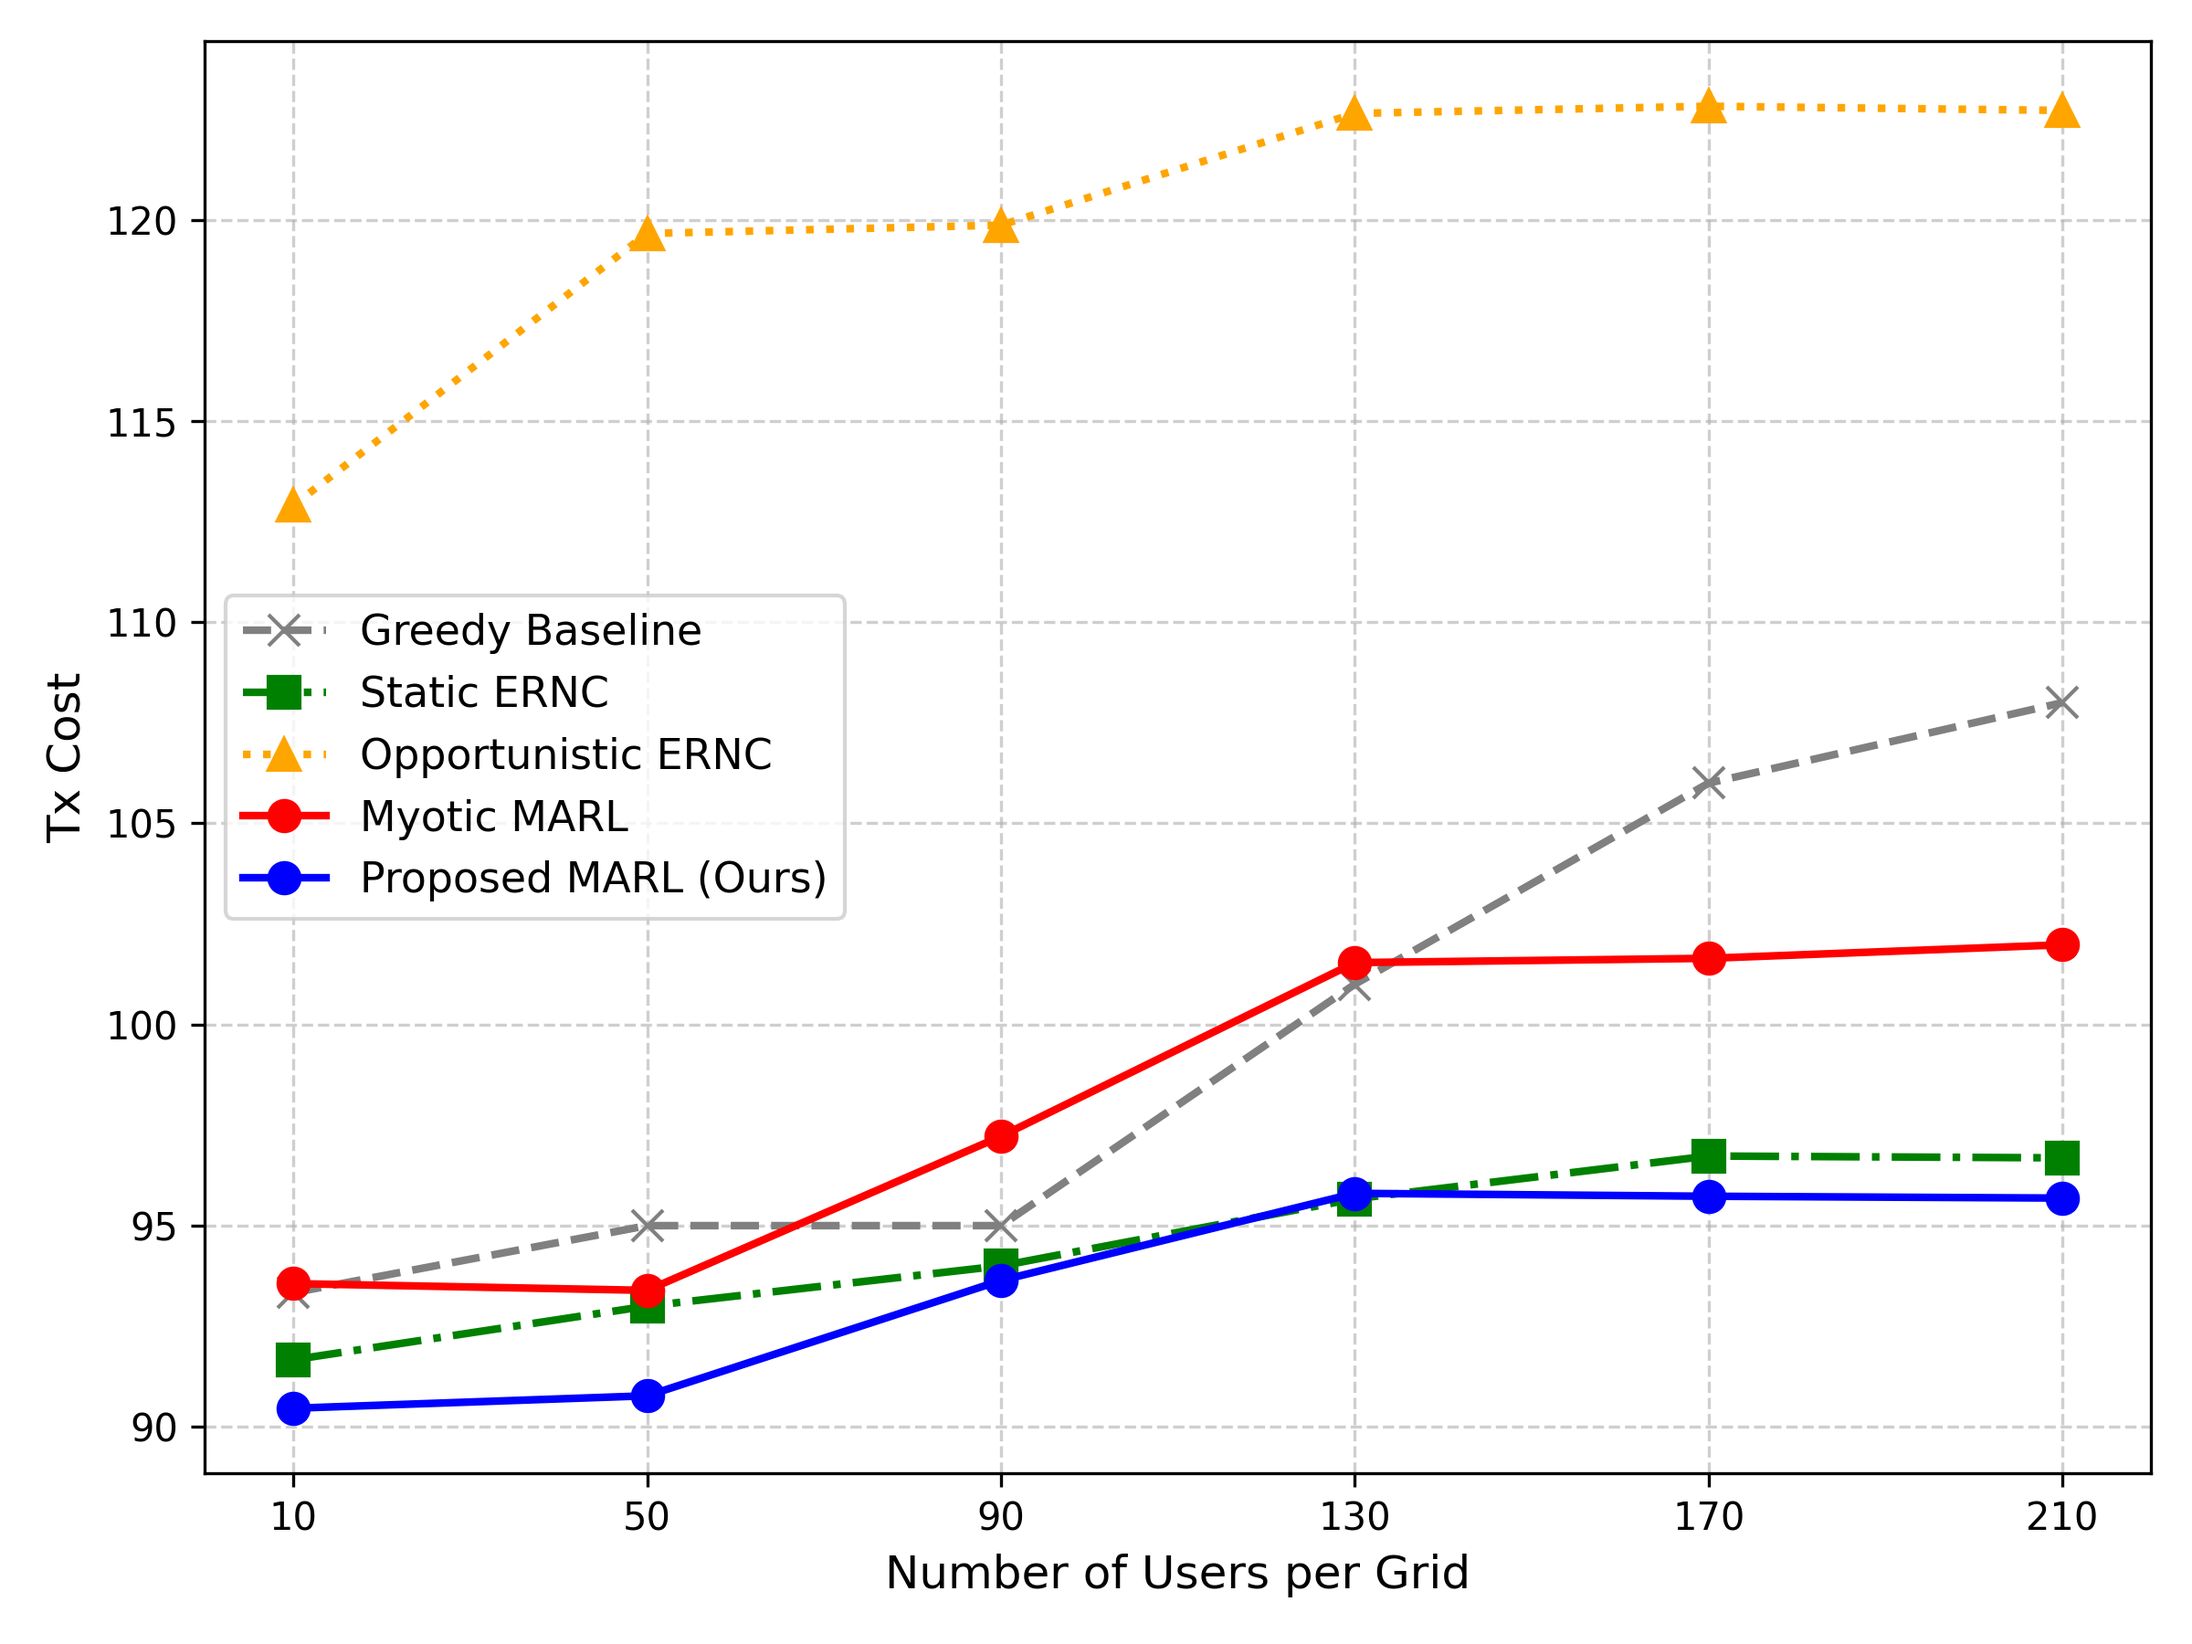
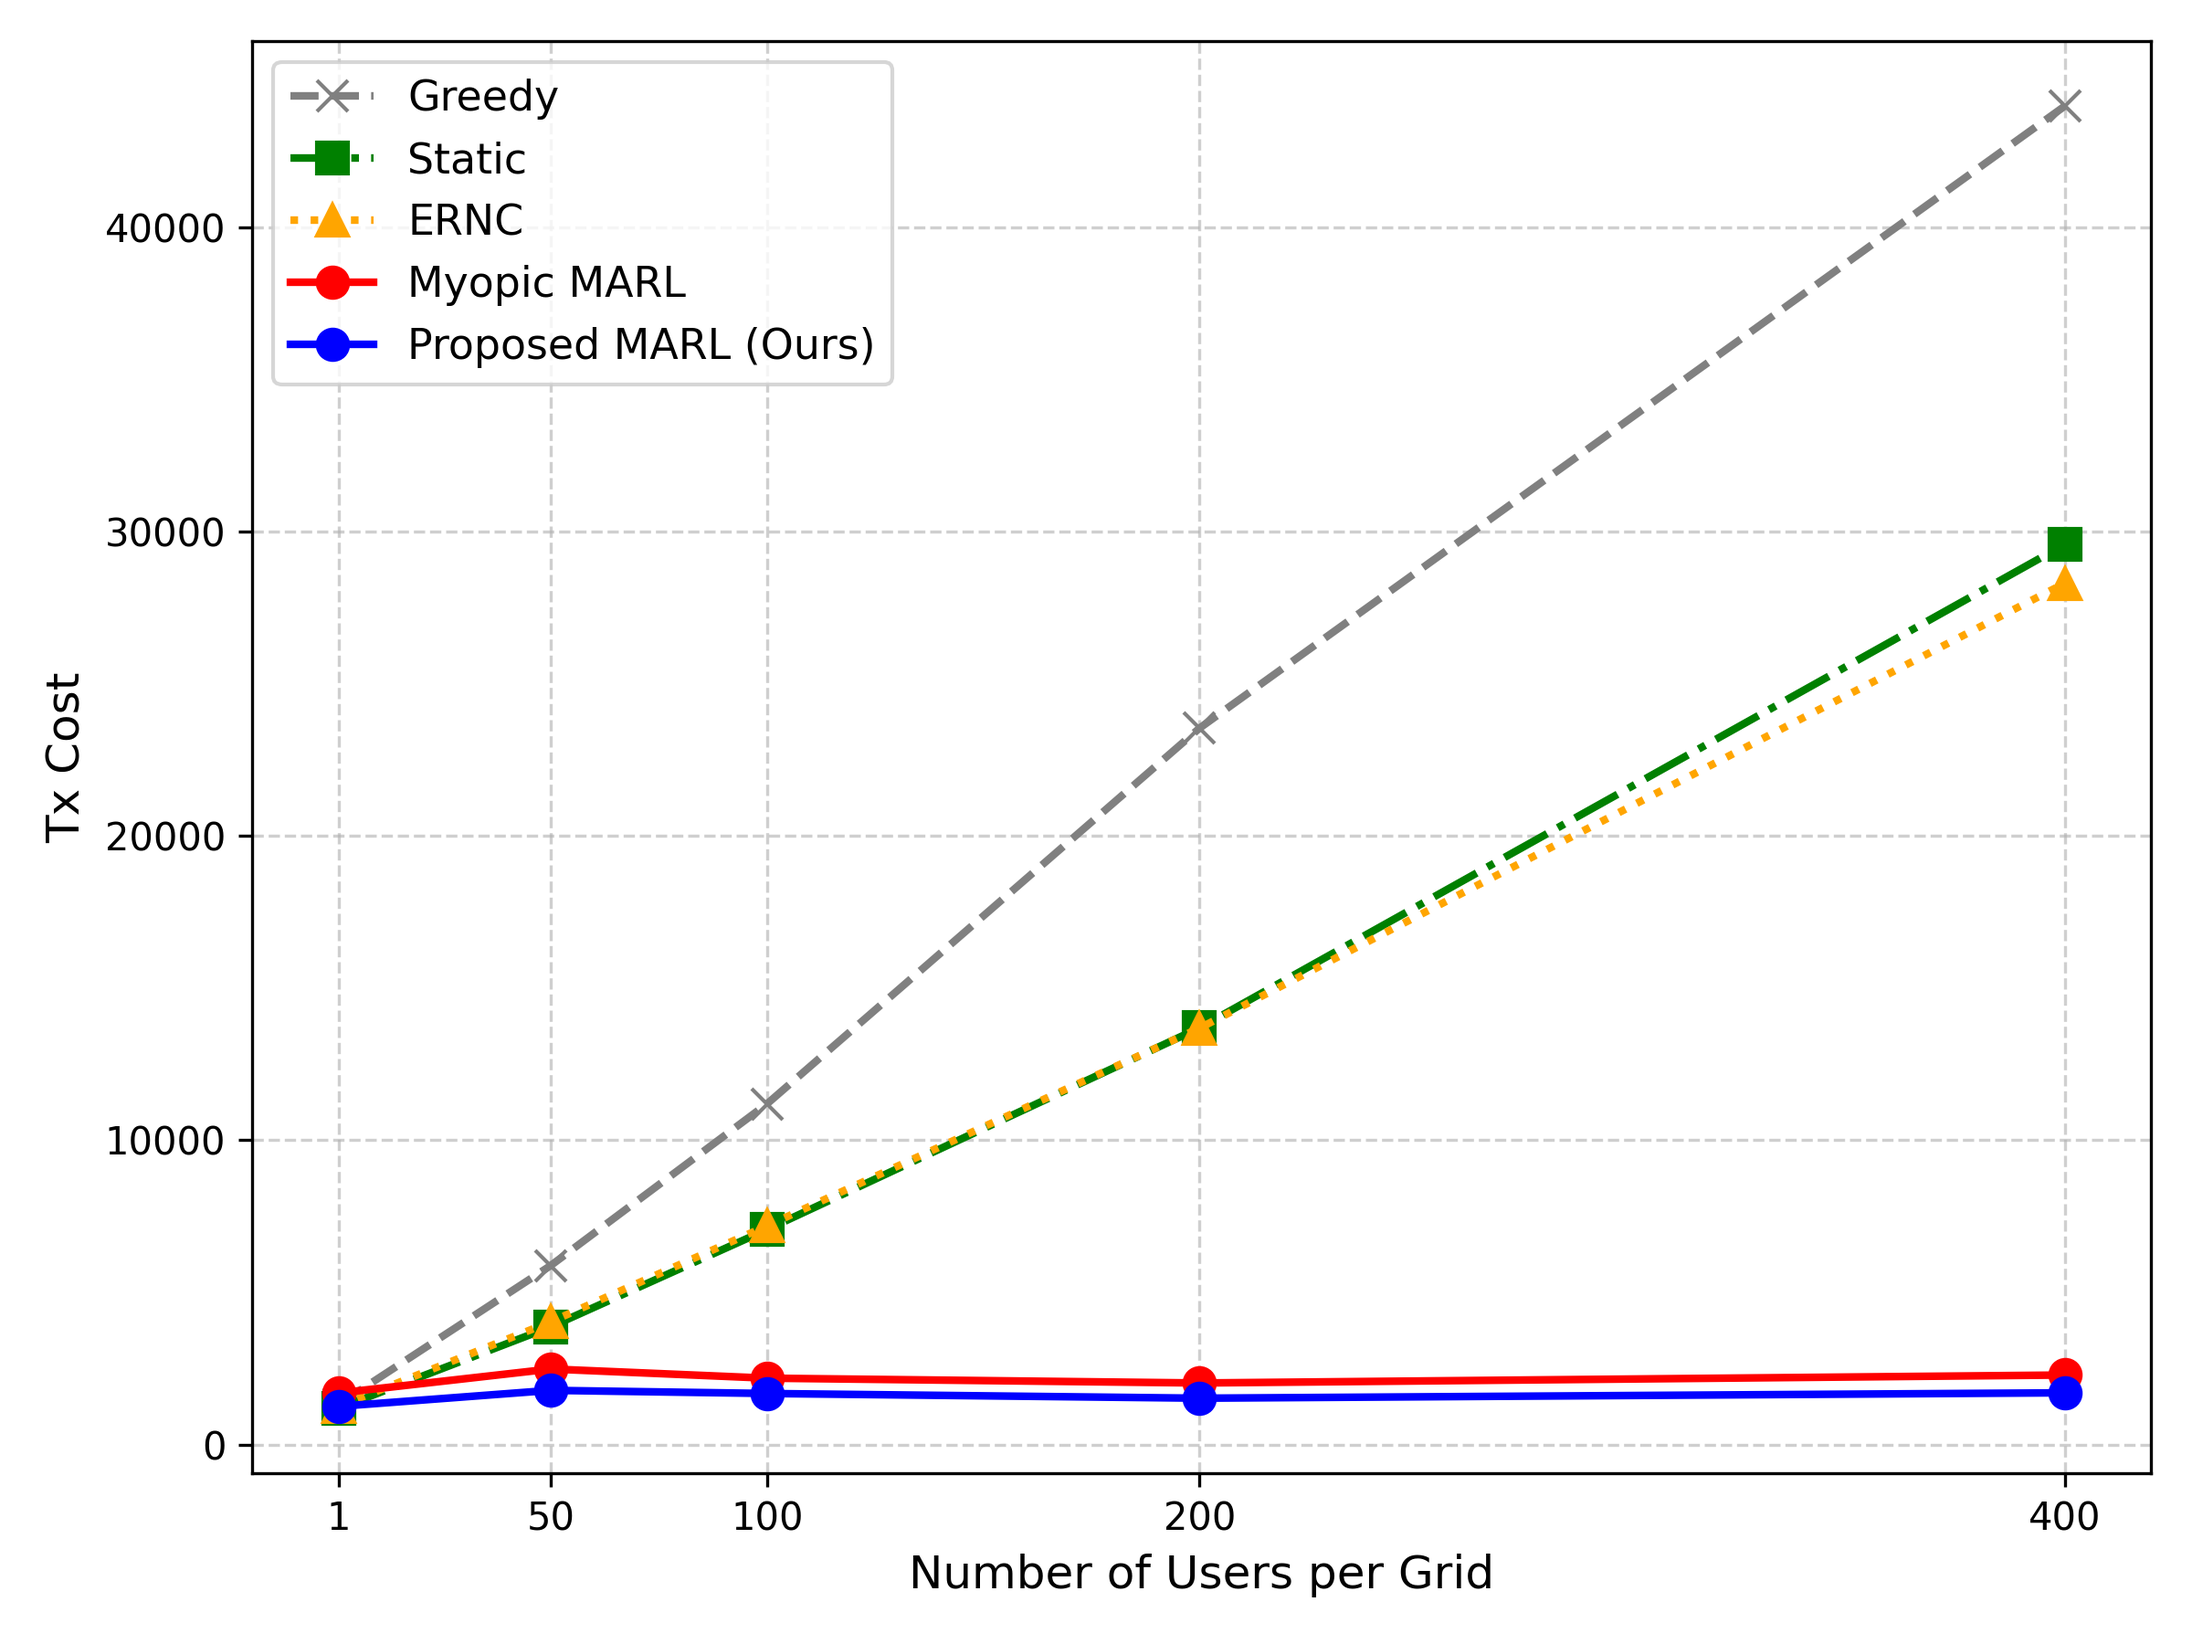
TODO: overlap perf with ERNC

diff --git a/plot/plot_step_ful_curve.py b/plot/plot_step_ful_curve.py
@@ -1,0 +1,83 @@
+import pandas as pd
+import matplotlib.pyplot as plt
+import os
+import sys
+sys.path.insert(0, os.path.abspath(os.path.join(os.path.dirname(__file__), "..")))
+
+from param import *
+
+# 1. 定義你要比較的算法與對應的 CSV 檔名
+# 你可以自行把其他 baseline 的 csv 檔名加進來
+DIR_NAME = f"satellite_{MY_CONST_NAME}_checkpoints/"
+files_info = {
+    "MAPPO": {"file": "MAPPO_curve.csv", "color": "blue", "label": "MAPPO-CTDE (TEG)"},
+    "MYOTIC": {"file": "MYOTIC_curve.csv", "color": "red", "label": "MYOPIC-CTDE"},
+    "GREEDY": {"file": "GREEDY_curve.csv", "color": "gray", "label": "Greedy-RLNC"},
+    "ERNC": {"file": "ERNC_curve.csv", "color": "orange", "label": "ER-NC"},
+    "STATIC": {"file": "STATIC_R_curve.csv", "color": "green", "label": "Static Redundancy"},
+}
+
+def plot_all_curves():
+    plt.figure(figsize=(10, 6))
+    
+    # 階段一：先掃描一次所有的 CSV，找出「最長的步數 (Global Max Step)」
+    max_step_global = 0
+    data_dict = {}
+
+    for algo, info in files_info.items():
+        file_name = os.path.join(DIR_NAME, info["file"])
+        if os.path.exists(file_name):
+            df = pd.read_csv(file_name)
+            # 確保欄位名稱跟你 CSV 裡的一樣 (例如 'step', 'fulfill')
+            max_step_global = max(max_step_global, df['step'].max())
+            data_dict[algo] = df
+        else:
+            print(f"找不到檔案: {file_name}")
+
+    # 階段二：處理數據並畫圖
+    for algo, info in files_info.items():
+        if algo not in data_dict:
+            continue
+            
+        df = data_dict[algo]
+        steps = df['step'].tolist()
+        # max_step = steps[-1]
+        fulfills = df['fulfill'].tolist()
+        
+        # 【關鍵處理 1】：正規化 (Normalization)
+        # 把大約 0.9 的最大值當成分母，等比例放大到 100%
+        max_f = max(fulfills)
+        if max_f > 0:
+            fulfills_100 = [(f / max_f) * 100 for f in fulfills]
+        else:
+            fulfills_100 = [0] * len(fulfills)
+        
+        # 【關鍵處理 2】：處理完成步數不同的問題 (向前平移填充)
+        # 如果這個演算法提早結束了，我們在陣列最後面補上一個點，讓線平移到最後
+        if steps[-1] < max_step_global:
+            steps.append(max_step_global)
+            fulfills_100.append(fulfills_100[-1]) # 沿用最後的完賽率 (通常是 100%)
+
+        # 畫出折線
+        plt.plot(steps, fulfills_100, color=info["color"], label=info["label"], linewidth=2.5)
+
+    # 圖表美化設定
+    plt.title('Fulfill Rate CDF over Time')
+    plt.xlabel('Time Step')
+    plt.ylabel('Fulfill Rate (%)')
+    
+    # 設定 Y 軸 0~105 留一點頂部空間，X 軸鎖定到最長步數
+    plt.ylim(0, 105)
+    if max_step_global > 0:
+        plt.xlim(0, max_step_global)
+        
+    plt.grid(True, linestyle='--', alpha=0.6)
+    plt.legend(loc="lower right", fontsize=12)
+
+    plt.tight_layout()
+    plt.savefig(f'fig/{MY_CONST_NAME}_all_curves_comparison.png', dpi=300)
+    plt.show()
+    print(f"已成功儲存 {MY_CONST_NAME}_all_curves_comparison.png")
+
+if __name__ == "__main__":
+    plot_all_curves()

diff --git a/plot/plot.py b/plot/plot.py
@@ -1,6 +1,9 @@
 import pandas as pd
 import matplotlib.pyplot as plt
 import os
+import sys
+sys.path.insert(0, os.path.abspath(os.path.join(os.path.dirname(__file__), "..")))
+
 from param import *
 
 # ==========================================
@@ -9,10 +12,10 @@ from param import *
 # 定義你的演算法標籤與對應的 CSV 檔案名稱
 # 假設你的檔案分別命名為以下名稱，請依照實際檔名修改
 algorithm_files = {
-    'Greedy Baseline': 'GREEDY_test_log.csv',
-    'Static ERNC': 'STATIC_R_test_log.csv',
-    'Opportunistic ERNC': 'ERNC_test_log.csv',
-    'Myotic MARL': 'MYOTIC_test_log.csv',
+    'Greedy': 'GREEDY_test_log.csv',
+    'Static': 'STATIC_R_test_log.csv',
+    'ERNC': 'ERNC_test_log.csv',
+    'Myopic MARL': 'MYOTIC_test_log.csv',
     'Proposed MARL (Ours)': 'MAPPO_test_log.csv'
 }
 
@@ -34,15 +37,16 @@ metrics_to_plot = {
     'Tx_Cost': {
         'title': 'Tx Cost vs User Number',
         'ylabel': 'Tx Cost'
-    },
-    'Fulfill': {
-        'title': 'Fulfillment vs User Number',
-        'ylabel': 'Fulfill %'
-    },
-    'Comp_Time': {
-        'title': 'Completion Time vs User Number',
-        'ylabel': 'Completion Time (Step)'
     }
+    # ,
+    # 'Fulfill': {
+    #     'title': 'Fulfillment vs User Number',
+    #     'ylabel': 'Fulfill %'
+    # },
+    # 'Comp_Time': {
+    #     'title': 'Completion Time vs User Number',
+    #     'ylabel': 'Completion Time (Step)'
+    # }
 }
 
 # X 軸的欄位名稱 (假設你的 CSV 裡叫做 User_Num)
@@ -53,7 +57,7 @@ styles = {
     'Greedy': {'color': 'gray', 'marker': 'x', 'linestyle': '--'},
     'Static': {'color': 'green', 'marker': 's', 'linestyle': '-.'},
     'ERNC': {'color': 'orange', 'marker': '^', 'linestyle': ':'},
-    'Myotic MARL': {'color': 'red', 'marker': 'o', 'linestyle': '-'},
+    'Myopic MARL': {'color': 'red', 'marker': 'o', 'linestyle': '-'},
     'Proposed MARL (Ours)': {'color': 'blue', 'marker': 'o', 'linestyle': '-'}
 }
 

diff --git a/SatelliteDataDisseminationEnv.py b/SatelliteDataDisseminationEnv.py
@@ -218,7 +218,7 @@ class SatelliteDataDisseminationEnv(ParallelEnv):
             # for g in range(self.constellation.get_visible_grids(i)):
             sent_user_count = self.constellation.download_to_grid(i, amount=actual_flow, current_time=current_time)
             # if (agent_name == TEST_ID): print(sent_user_count)
-            if (self.is_unicast): self.episode_tx_cost += actual_flow * max(sent_user_count * 0.1, 1.0)
+            if (self.is_unicast): self.episode_tx_cost += actual_flow * max(sent_user_count * 0.01, 1.0)
             else: self.episode_tx_cost += actual_flow
 
             # 計算進度增量 → 這才是真正的正向信號

diff --git a/plot/plot_curve.py b/plot/plot_curve.py
@@ -1,6 +1,9 @@
 import pandas as pd
 import matplotlib.pyplot as plt
 import os
+import sys
+sys.path.insert(0, os.path.abspath(os.path.join(os.path.dirname(__file__), "..")))
+
 from param import *
 
 # ==========================================
@@ -16,7 +19,7 @@ file_STATIC = f'satellite_{MY_CONST_NAME}_checkpoints/STATIC_R_test_log.csv'
 # ==========================================
 # 2. Plotting Setup
 # ==========================================
-METRICS = ["Tx_Cost", "Comp_Time"] # Iteration,Reward,Cost_Rate,Lambda,Tx_Cost,Comp_Time
+METRICS = ["Tx_Cost"] # Iteration,Reward,Cost_Rate,Lambda,Tx_Cost,Comp_Time
 
 for m in METRICS:
     ylab = ""
